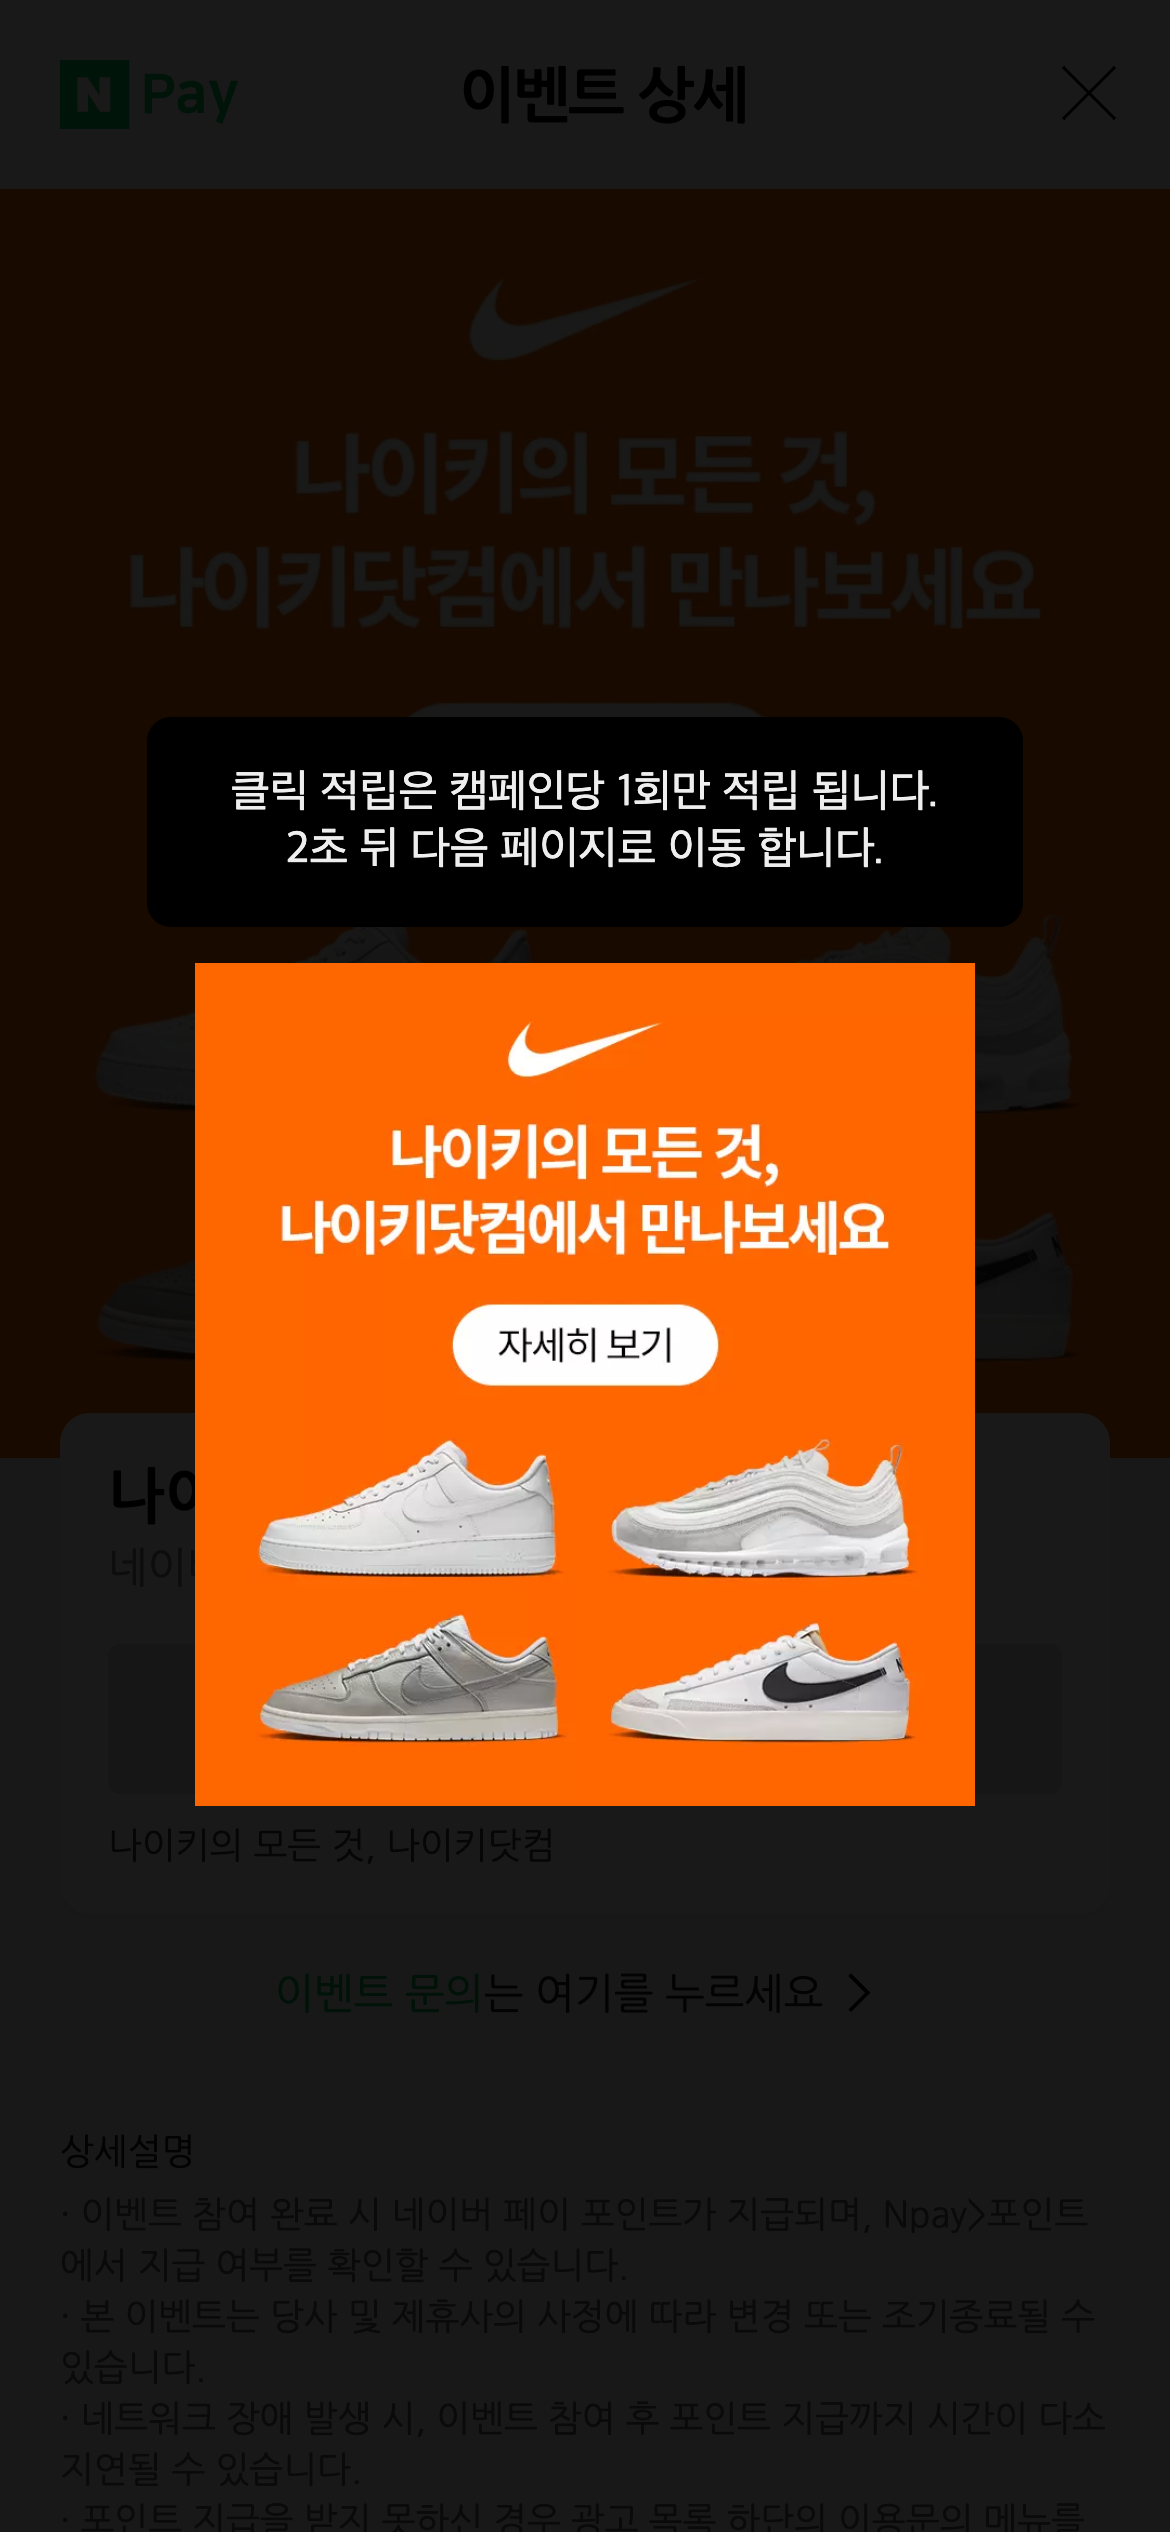
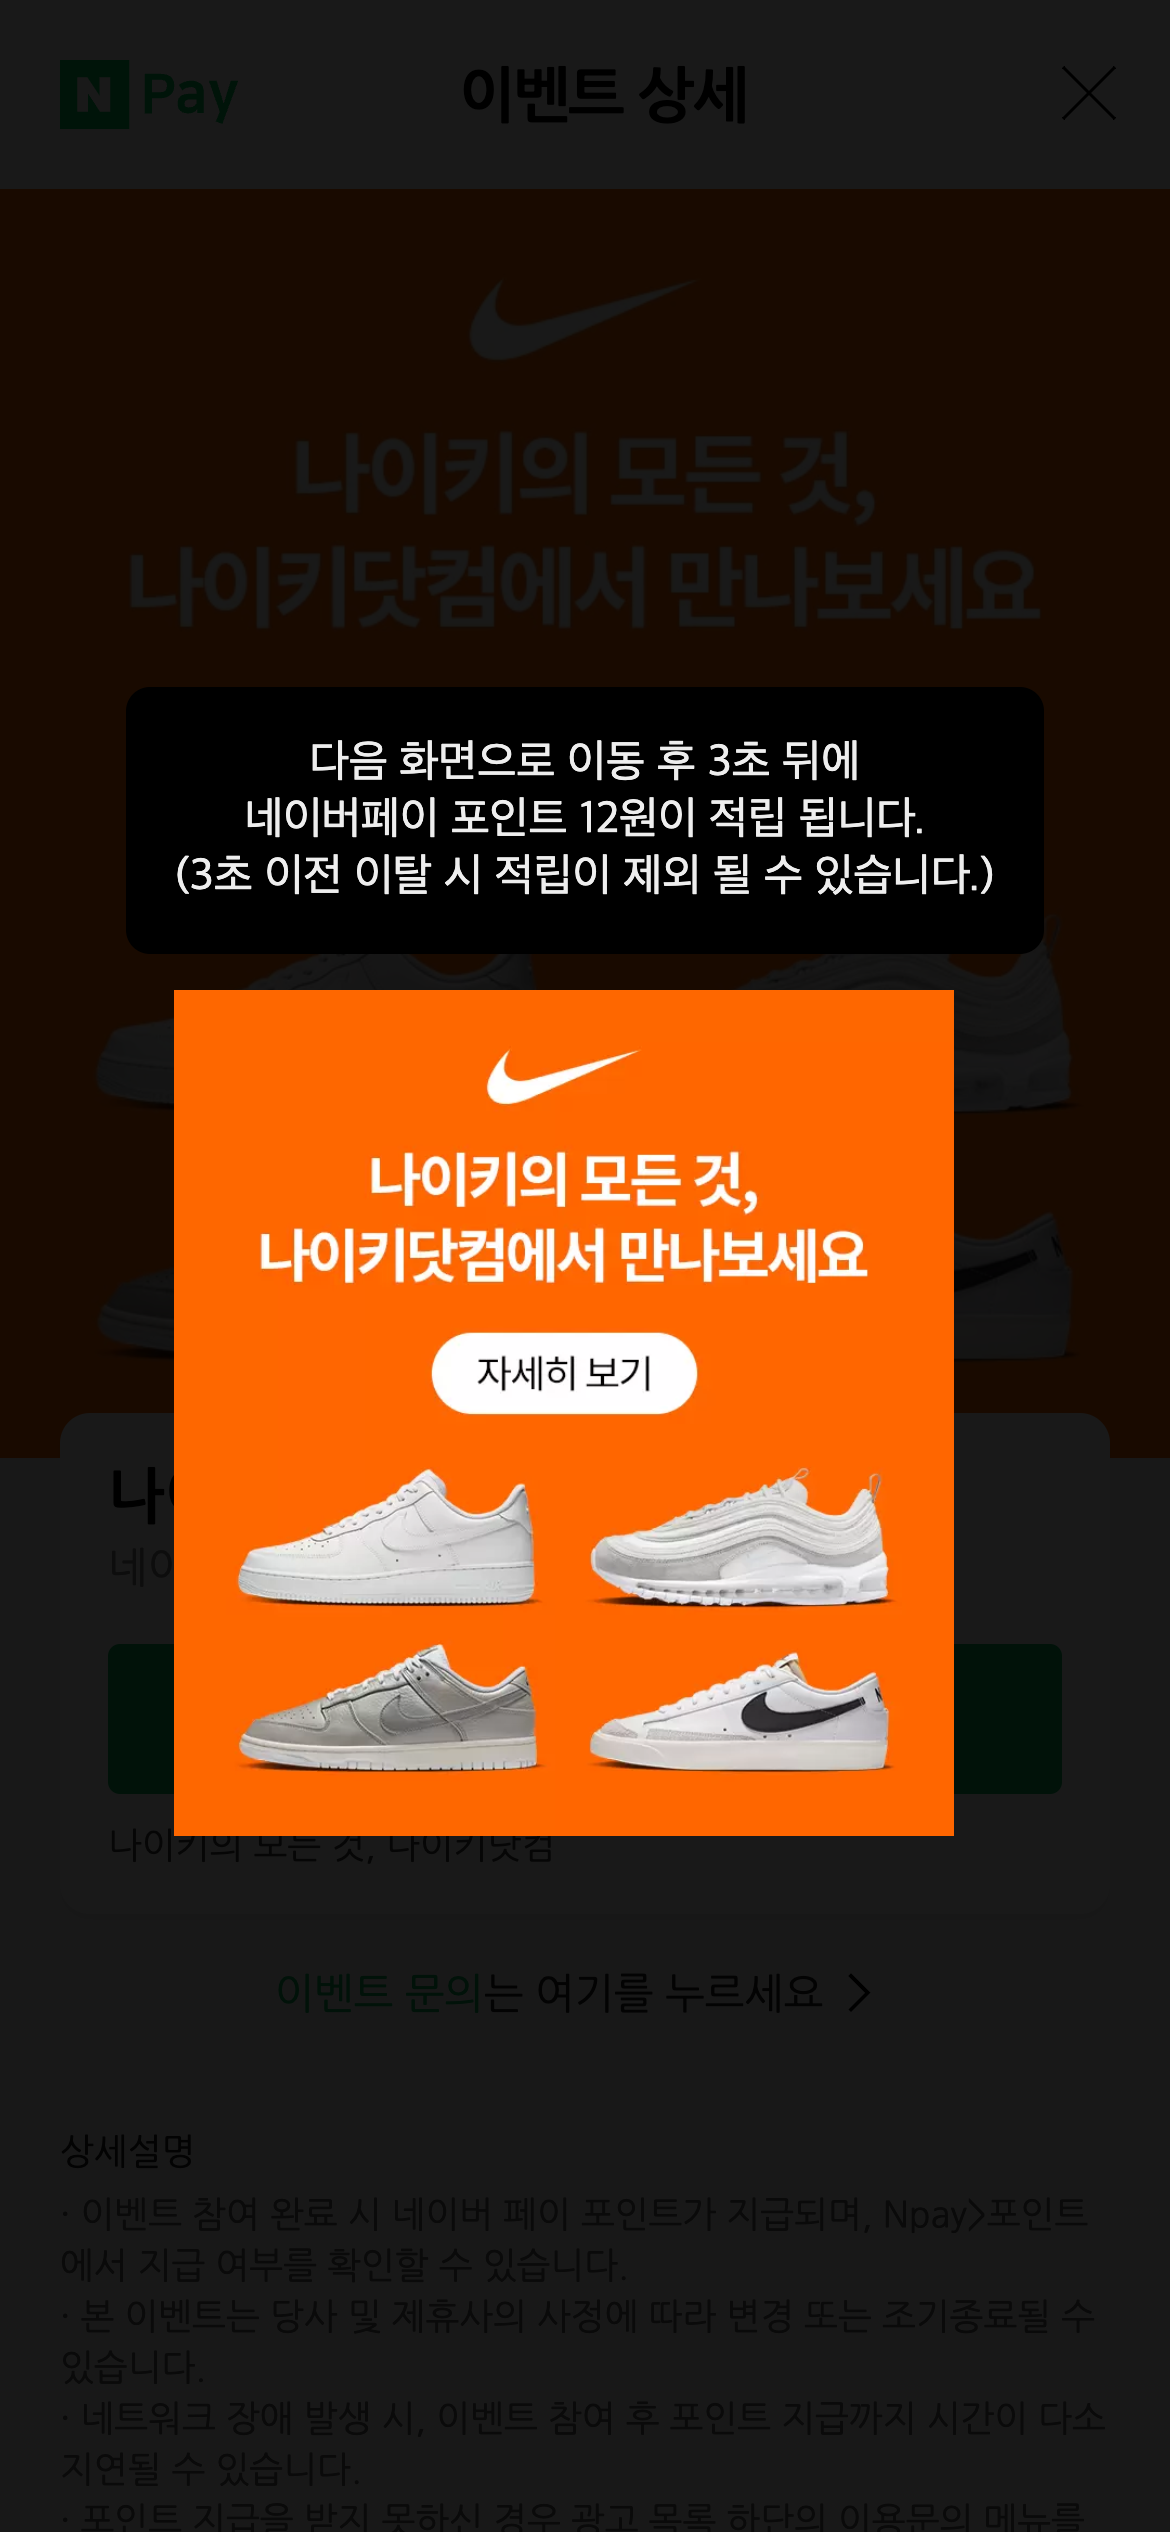
Fix 오전9시 광고 시작 시간 수정
9시 광고 시작 시간 조정(웰컴저축 광고 포인트 얻기 실패로 인하여)

Changed region(s): [[0.0923, 0.2496, 0.8923, 0.7488]]

diff --git a/appDev.js b/appDev.js
@@ -29,6 +29,8 @@
  * 2023/02/14        wj       9시 2차 광고 접속 버그 수정
  * 2023/02/15        wj       9시 광고 오류 수정
  * 2023/02/17        wj       8시 광고 비활성화 및 코드 정리
+ * 2023/02/18        wj       네이버 페이 포인트 적립될 아이디 알림 메시지 추가
+ * 2023/02/23        wj       9시 광고 시작 시간 조정(웰컴저축 광고 포인트 얻기 실패로 인하여)
  */
 /* Reference
  * 파이썬 - 셀레니움으로 네이버 로그인하기, 캡차(보안문자) 우회 : https://private.tistory.com/119
@@ -95,7 +97,7 @@ if (!config.id || !config.pw) {
 
     try {
         let today = new Date();
-        schedule.scheduleJob('02 00 09 * * *', () => { // 매일 오전 09시 프로그램 작동
+        schedule.scheduleJob('01 00 09 * * *', () => { // 매일 오전 09시 프로그램 작동
             console.log("현재 시간: " + today.toLocaleString() + " 네이버 페이 자동 출첵이 시작되었습니다.");
             login(job1_3) // 네이버 로그인후 9시 광고 함수 실행
         });
